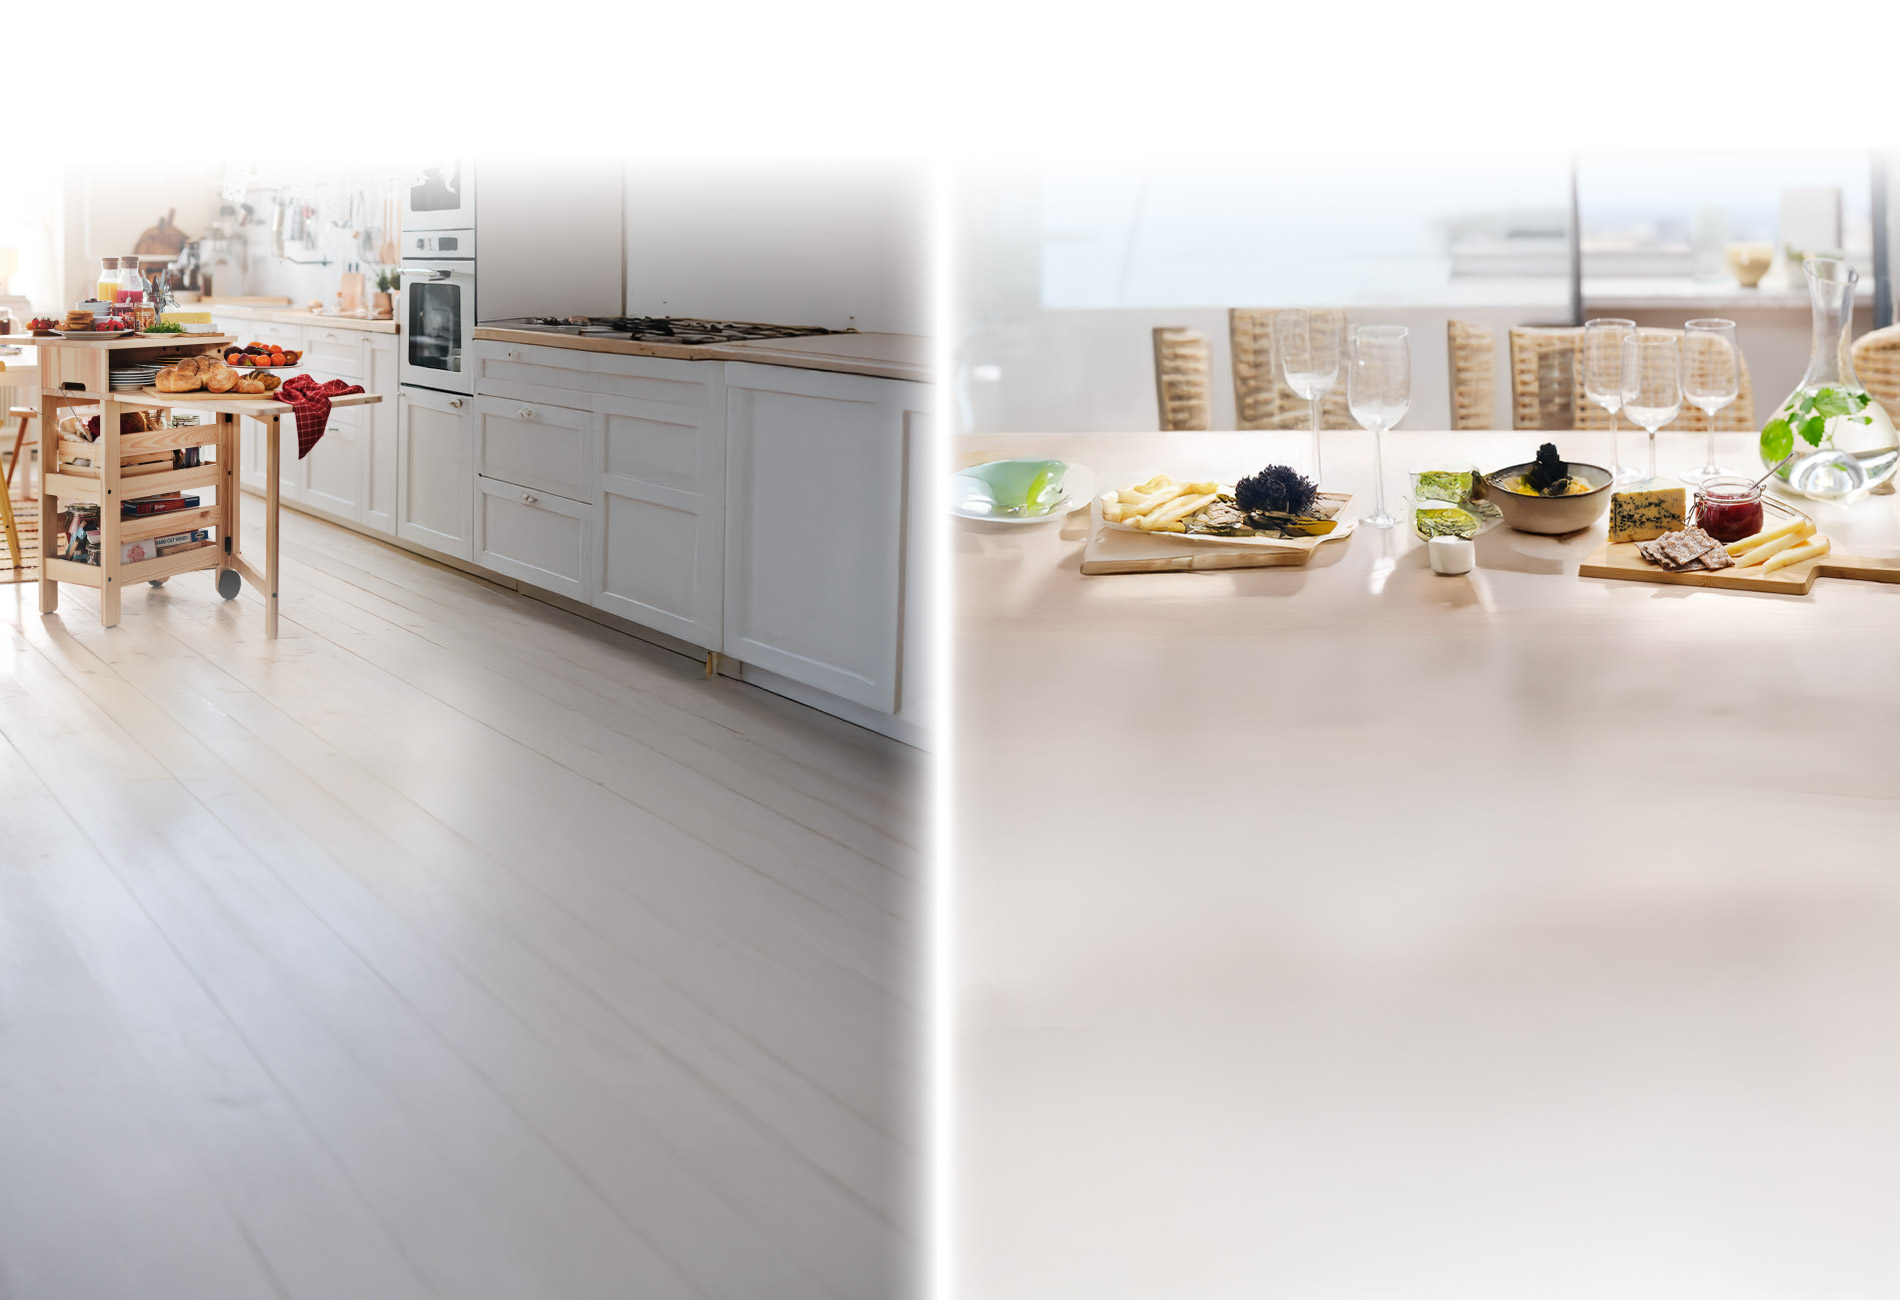
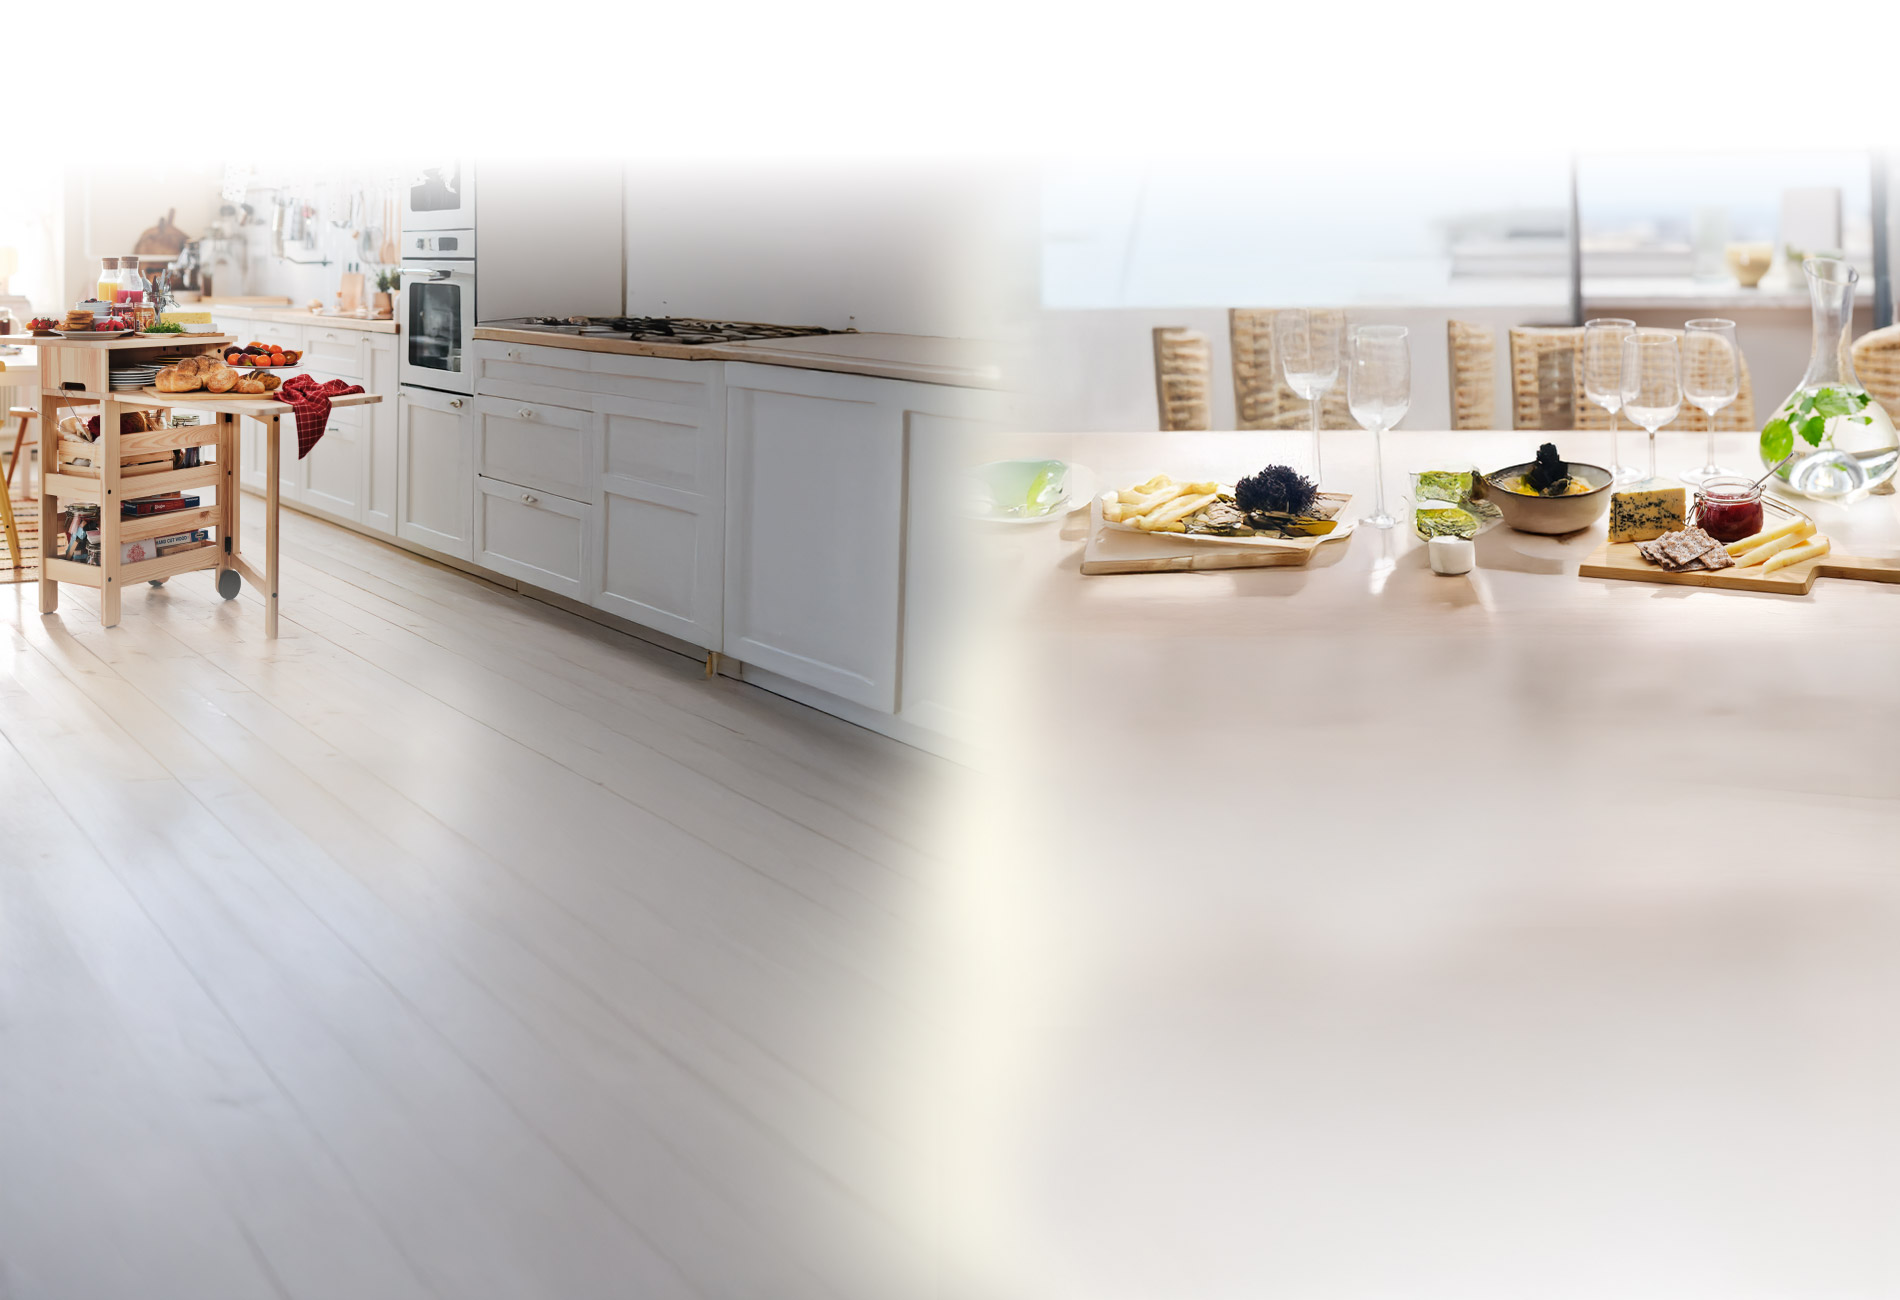
update bottom

Changed region(s): [[0.4037, 0.1538, 0.5589, 1.0]]

diff --git a/style.css b/style.css
@@ -147,6 +147,7 @@ body {
 }
 
 .bottom img {
+    display:none;
     width: 50%;
     aspect-ratio: 485/115;
     left: 10px;
@@ -397,14 +398,14 @@ body {
         font-size: 17px;
         bottom: 33px;
     }
-    .bottom img{
+    /* .bottom img{
         width:40%;
         left:0;
     }
     .bottom img:nth-child(2){
         width:15%;
         right:30px;
-    }
+    } */
 
 }
  /* 125% view */
@@ -483,7 +484,7 @@ body {
         top:80px;
     }
 
-    .bottom img {
+    /* .bottom img {
         width: 30%;
         aspect-ratio: 485/115;
         left: 10px;
@@ -494,7 +495,7 @@ body {
         right: 30px;
         left: unset;
         aspect-ratio: 131/89;
-    }
+    } */
 }
 
 /** above 1920 screen*/
